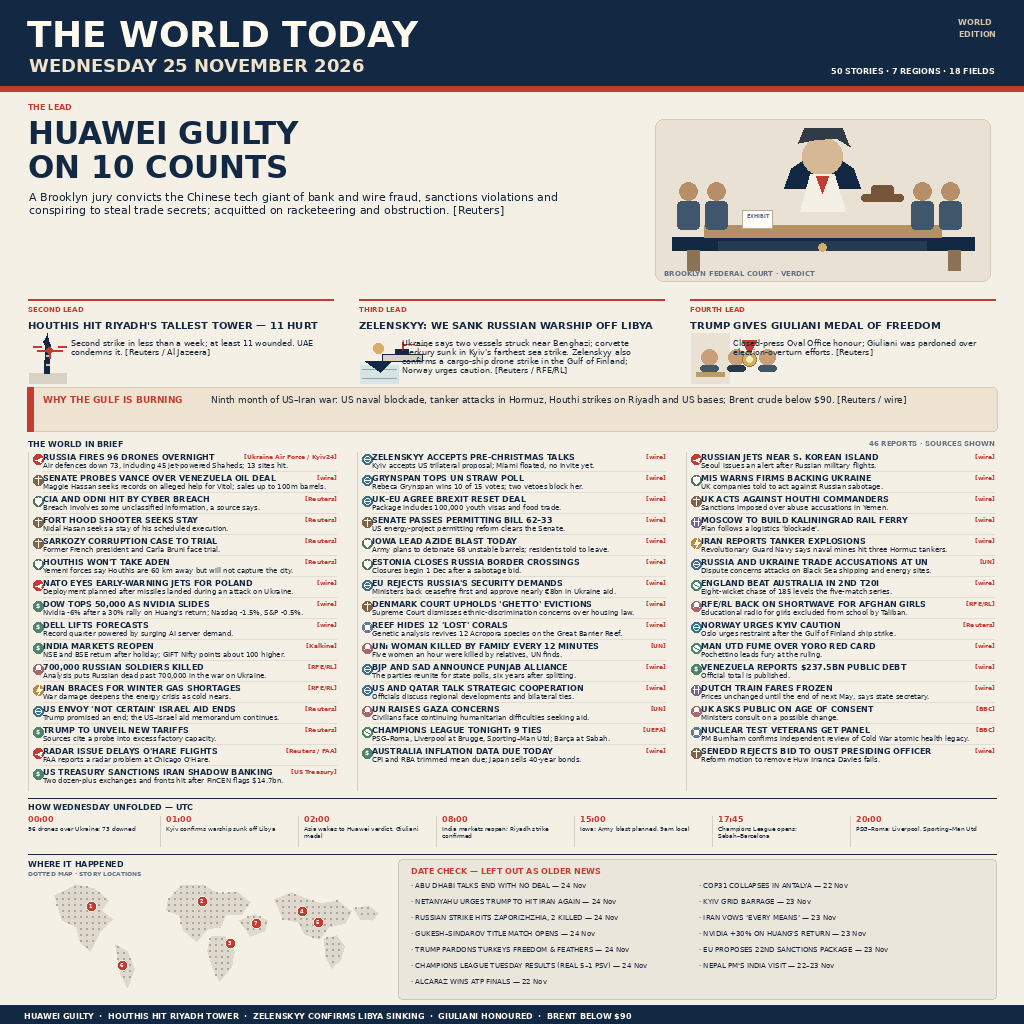
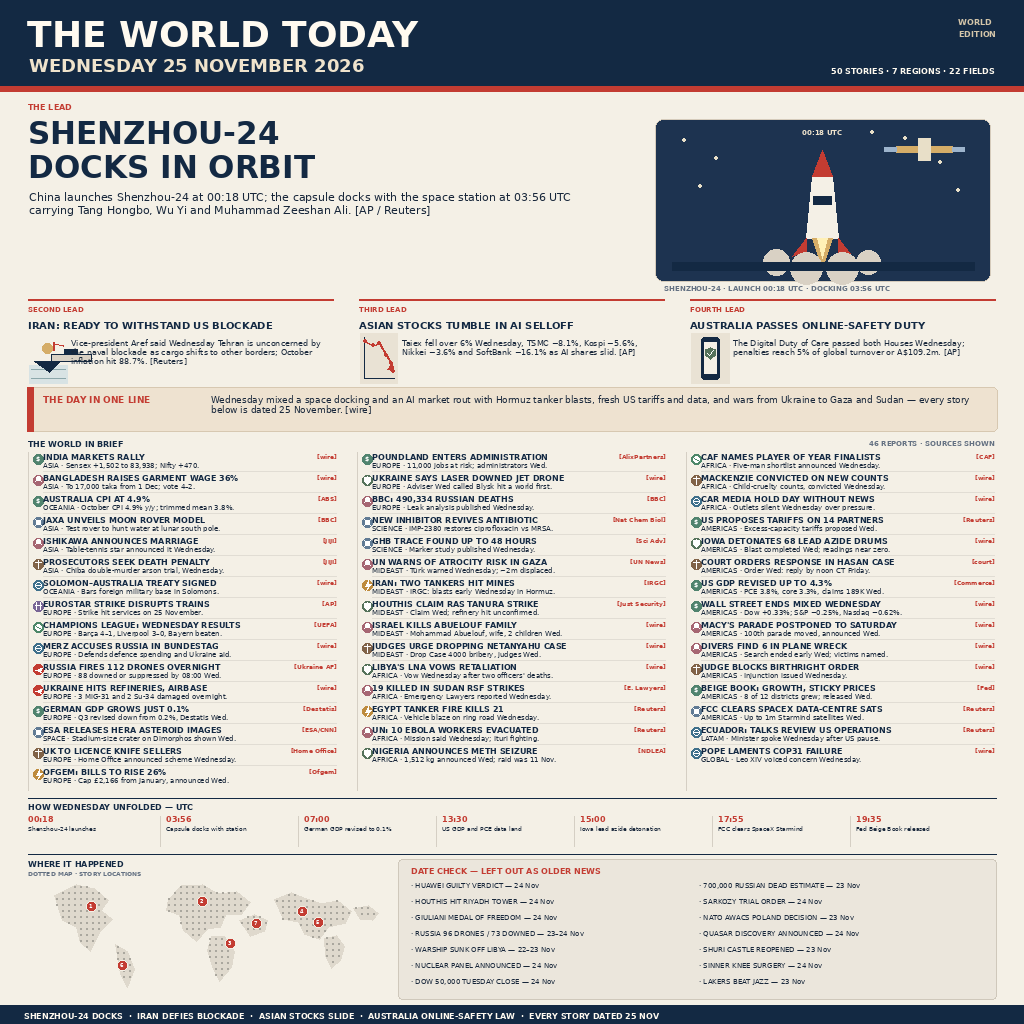
Revise poster with verified 25 Nov stories

diff --git a/main.ts b/main.ts
@@ -1,16 +1,19 @@
-import { copyFile, mkdir } from "node:fs/promises";
+import { copyFile, mkdir, stat } from "node:fs/promises";
 import { dirname, join, resolve } from "node:path";
 import { fileURLToPath } from "node:url";
 
+// Grade-time entrypoint: copy the committed poster byte-for-byte so two
+// runs always produce identical output. No network, no image processing.
 const destinationRoot = process.env.MAKEFUN_OUTPUT_DIR?.trim() || "/output";
 const source = resolve(dirname(fileURLToPath(import.meta.url)), "entry.png");
 const destination = join(destinationRoot, "entry.png");
 
-async function publish() {
+async function publishPoster() {
   try {
     await mkdir(dirname(destination), { recursive: true });
     await copyFile(source, destination);
-    console.log(`Wrote ${destination}`);
+    const { size } = await stat(destination);
+    console.log(`Wrote ${destination} (${size} bytes)`);
   } catch (error) {
     const detail = error instanceof Error ? error.message : String(error);
     console.error(`Could not copy the bundled poster to ${destination}: ${detail}`);
@@ -18,4 +21,4 @@ async function publish() {
   }
 }
 
-void publish();
+void publishPoster();

diff --git a/draw_poster.py b/draw_poster.py
@@ -88,45 +88,42 @@ def circle(cx, cy, r, fill, outline=None, thick=1):
     d.ellipse((cx-r, cy-r, cx+r, cy+r), fill=fill, outline=outline, width=thick)
 
 
-def courtroom():
-    # A compact courtroom vignette: bench, judge, jury rail and the evidence seal.
-    d.rounded_rectangle((655, 119, 990, 281), 8, fill="#e8e1d4", outline="#d5cbbb", width=1)
-    d.rectangle((672, 237, 974, 250), fill=NAVY)
-    d.rectangle((687, 250, 699, 270), fill="#8c7355")
-    d.rectangle((948, 250, 960, 270), fill="#8c7355")
-    d.rectangle((704, 225, 941, 237), fill="#b39164")
-    # Bench front inset and small gold seal.
-    d.rectangle((718, 241, 926, 250), fill="#263b53")
-    circle(822, 247, 4, GOLD)
-    # Judge silhouette above the bench.
-    d.polygon([(784, 188), (791, 168), (805, 159), (839, 159), (853, 168), (860, 188)], fill=NAVY)
-    d.ellipse((802, 137, 842, 175), fill="#d7b894")
-    d.polygon([(798, 143), (804, 128), (842, 128), (849, 146), (836, 138), (813, 140)], fill="#313b47")
-    d.polygon([(810, 174), (834, 174), (845, 211), (800, 211)], fill="#f4f0e6")
-    d.polygon([(816, 176), (828, 176), (822, 193)], fill=RED)
-    # Two jury silhouettes keep the scene grounded without adding visual noise.
-    for xx in (688, 716, 922, 950):
-        circle(xx, 191, 9, "#b68f69")
-        d.rounded_rectangle((xx-11, 201, xx+11, 229), 4, fill="#40566a")
-    # Gavel and document marked as evidence.
-    d.rounded_rectangle((861, 194, 903, 201), 3, fill="#76553a")
-    d.rounded_rectangle((871, 185, 893, 196), 3, fill="#76553a")
-    d.rectangle((742, 210, 772, 228), fill="#fffdf8", outline="#b9ad9a")
-    text(747, 213, "EXHIBIT", 5, MUTED, True)
+def rocket():
+    # A compact launch vignette: Shenzhou-24 lifts off toward the station.
+    d.rounded_rectangle((655, 119, 990, 281), 8, fill="#1d3350", outline="#d5cbbb", width=1)
+    # Stars and the station silhouette the capsule is heading for.
+    for sx, sy in ((684, 140), (716, 158), (905, 138), (940, 162), (872, 132), (700, 186), (958, 190)):
+        circle(sx, sy, 1.6, "#e8dfc8")
+    d.rectangle((896, 146, 952, 152), fill=GOLD)
+    d.rectangle((918, 138, 930, 160), fill="#e8dfc8")
+    d.rectangle((884, 147, 896, 151), fill="#9db4cc")
+    d.rectangle((952, 147, 964, 151), fill="#9db4cc")
+    # Rocket body, capsule nose and fins.
+    d.polygon([(806, 238), (812, 176), (822, 150), (832, 176), (838, 238)], fill="#f4f0e6")
+    d.polygon([(812, 176), (822, 150), (832, 176)], fill=RED)
+    d.rectangle((813, 196, 831, 204), fill=NAVY)
+    d.polygon([(806, 238), (792, 256), (806, 252)], fill=RED)
+    d.polygon([(838, 238), (852, 256), (838, 252)], fill=RED)
+    # Exhaust flame and launch-pad smoke.
+    d.polygon([(812, 238), (822, 268), (832, 238)], fill=GOLD)
+    d.polygon([(817, 238), (822, 258), (827, 238)], fill="#fff0b6")
+    for cx, cy, r in ((776, 262, 13), (806, 268, 16), (842, 268, 16), (868, 262, 12)):
+        circle(cx, cy, r, "#d9d1c4")
+    d.rectangle((672, 262, 974, 270), fill="#132943")
+    text(822, 128, "00:18 UTC", 7, "#efe3cc", True, anchor="ma")
 
 
-def tower_icon(box):
+def chart_icon(box):
     x, y, w, h = box
-    d.rectangle((x, y+h-10, x+w, y+h), fill="#d9d1c4")
-    pts = [(x+w*.42,y+h-10),(x+w*.45,y+13),(x+w*.39,y+8),(x+w*.47,y+4),
-           (x+w*.49,y),(x+w*.53,y+8),(x+w*.58,y+11),(x+w*.56,y+h-10)]
-    d.polygon(pts, fill=NAVY)
-    for yy in range(int(y+22), int(y+h-15), 9):
-        line(int(x+w*.46), yy, int(x+w*.55), yy, "#d6c7ac", 2)
-    # Drone with twin rotors and a red strike marker.
-    line(x+8,y+17,x+33,y+17,RED,2); line(x+20,y+17,x+20,y+25,RED,2)
-    line(x+4,y+13,x+12,y+13,RED,2); line(x+29,y+13,x+37,y+13,RED,2)
-    circle(x+20,y+17,3,RED)
+    d.rectangle((x, y, x+w, y+h), fill="#e9e2d4")
+    line(x+4, y+4, x+4, y+h-5, NAVY, 1)
+    line(x+4, y+h-5, x+w-3, y+h-5, NAVY, 1)
+    # A falling index line for the Asian AI selloff.
+    pts = [(x+5, y+8), (x+13, y+12), (x+19, y+10), (x+26, y+22), (x+31, y+30), (x+w-4, y+38)]
+    d.line(pts, fill=RED, width=2)
+    for px, py in pts:
+        circle(px, py, 1.8, RED)
+    d.polygon([(x+w-4, y+38), (x+w-10, y+36), (x+w-6, y+31)], fill=RED)
 
 
 def ship_icon(box):
@@ -137,22 +134,19 @@ def ship_icon(box):
     d.polygon([(x+5,y+int(h*.58)),(x+w-7,y+int(h*.58)),(x+w-18,y+int(h*.79)),(x+20,y+int(h*.79))],fill=NAVY)
     d.rectangle((x+22,y+int(h*.43),x+62,y+int(h*.58)),fill="#d9d1c4",outline=NAVY)
     d.rectangle((x+35,y+int(h*.33),x+48,y+int(h*.43)),fill=NAVY)
-    line(x+42,y+int(h*.19),x+42,y+int(h*.35),RED,2)
-    line(x+43,y+int(h*.2),x+66,y+int(h*.25),RED,2)
+    line(x+24,y+int(h*.19),x+24,y+int(h*.35),RED,2)
+    line(x+25,y+int(h*.2),x+34,y+int(h*.25),RED,2)
     circle(x+w-20,y+15,5,GOLD)
 
 
-def medal_icon(box):
+def shield_icon(box):
     x,y,w,h=box
-    # Two officials and a ribbon medal against a simple ceremony backdrop.
+    # A phone guarded by a shield: Australia's new online-safety duty.
     d.rectangle((x,y,x+w,y+h),fill="#e9e2d4")
-    d.rectangle((x+5,y+h-11,x+w-5,y+h-7),fill="#bd9b69")
-    for xx, color in ((x+18,"#435768"),(x+45,"#26394e"),(x+76,"#435768")):
-        circle(xx,y+24,8,"#c99f7a")
-        d.rounded_rectangle((xx-9,y+32,xx+9,y+h-12),4,fill=color)
-    d.polygon([(x+51,y+7),(x+58,y+22),(x+65,y+7)],fill=RED)
-    circle(x+58,y+26,7,GOLD,outline="#9e762f",thick=1)
-    circle(x+58,y+26,3,"#fff0b6")
+    d.rounded_rectangle((x+10,y+4,x+28,y+h-4),3,fill=NAVY)
+    d.rectangle((x+13,y+9,x+25,y+h-10),fill="#f4f0e6")
+    d.polygon([(x+19,y+14),(x+24,y+16),(x+24,y+22),(x+19,y+26),(x+14,y+22),(x+14,y+16)],fill="#55725a")
+    d.line([(x+16.5,y+20),(x+18.5,y+22),(x+22,y+17.5)],fill="white",width=1)
 
 
 def mini_symbol(x, y, kind):
@@ -193,24 +187,24 @@ d.rectangle((0,86,W,91),fill=RED)
 text(27,13,"THE WORLD TODAY",36,"#fffaf0",True)
 text(29,55,"WEDNESDAY 25 NOVEMBER 2026",18,"#efe3cc",True)
 text(996,17,"WORLD\nEDITION",8,"#d4c5a9",True,anchor="ra")
-text(995,66,"50 STORIES · 7 REGIONS · 18 FIELDS",8,"#fffaf0",True,anchor="ra")
+text(995,66,"50 STORIES · 7 REGIONS · 22 FIELDS",8,"#fffaf0",True,anchor="ra")
 
-# Dominant front-page lead and original courtroom illustration.
+# Dominant front-page lead and original launch illustration.
 section_label(28,102,"THE LEAD",RED,8)
-text(28,115,"HUAWEI GUILTY",31,NAVY,True)
-text(28,149,"ON 10 COUNTS",31,NAVY,True)
-paragraph(29,190,"A Brooklyn jury convicts the Chinese tech giant of bank and wire fraud, sanctions violations and conspiring to steal trade secrets; acquitted on racketeering and obstruction. [Reuters]",11,585,INK,False,2,5)
-courtroom()
-text(664,269,"BROOKLYN FEDERAL COURT · VERDICT",7,MUTED,True)
+text(28,115,"SHENZHOU-24",31,NAVY,True)
+text(28,149,"DOCKS IN ORBIT",31,NAVY,True)
+paragraph(29,190,"China launches Shenzhou-24 at 00:18 UTC; the capsule docks with the space station at 03:56 UTC carrying Tang Hongbo, Wu Yi and Muhammad Zeeshan Ali. [AP / Reuters]",11,585,INK,False,2,5)
+rocket()
+text(664,284,"SHENZHOU-24 · LAUNCH 00:18 UTC · DOCKING 03:56 UTC",7,MUTED,True)
 
 # Three concise illustrated follow-up leads.
 lead_cards = [
-    ("SECOND LEAD","HOUTHIS HIT RIYADH'S TALLEST TOWER — 11 HURT",
-     "Second strike in less than a week; at least 11 wounded. UAE condemns it. [Reuters / Al Jazeera]","tower"),
-    ("THIRD LEAD","ZELENSKYY: WE SANK RUSSIAN WARSHIP OFF LIBYA",
-     "Ukraine says two vessels struck near Benghazi; corvette Merkury sunk in Kyiv's farthest sea strike. Zelenskyy also confirms a cargo-ship drone strike in the Gulf of Finland; Norway urges caution. [Reuters / RFE/RL]","ship"),
-    ("FOURTH LEAD","TRUMP GIVES GIULIANI MEDAL OF FREEDOM",
-     "Closed-press Oval Office honour; Giuliani was pardoned over election-overturn efforts. [Reuters]","medal"),
+    ("SECOND LEAD","IRAN: READY TO WITHSTAND US BLOCKADE",
+     "Vice-president Aref said Wednesday Tehran is unconcerned by the naval blockade as cargo shifts to other borders; October inflation hit 88.7%. [Reuters]","ship"),
+    ("THIRD LEAD","ASIAN STOCKS TUMBLE IN AI SELLOFF",
+     "Taiex fell over 6% Wednesday, TSMC −8.1%, Kospi −5.6%, Nikkei −3.6% and SoftBank −16.1% as AI shares slid. [AP]","chart"),
+    ("FOURTH LEAD","AUSTRALIA PASSES ONLINE-SAFETY DUTY",
+     "The Digital Duty of Care passed both Houses Wednesday; penalties reach 5% of global turnover or A$109.2m. [AP]","shield"),
 ]
 card_x = [28, 359, 690]
 for i,(label,headline,deck,kind) in enumerate(lead_cards):
@@ -219,66 +213,66 @@ for i,(label,headline,deck,kind) in enumerate(lead_cards):
     section_label(x,305,label,RED,7)
     title, title_size = fitted(headline,10,304,True,7)
     text(x,319,title,title_size,NAVY,True)
-    if kind == "tower": tower_icon((x+1,333,37,50))
+    if kind == "chart": chart_icon((x+1,333,37,50))
     elif kind == "ship": ship_icon((x+1,333,38,50))
-    else: medal_icon((x+1,333,38,50))
+    else: shield_icon((x+1,333,38,50))
     paragraph(x+43,338,deck,8,258,INK,False,1,5)
 
-# The regional conflict explainer, visually set apart as the only red band.
+# The day's big picture, visually set apart as the only red band.
 d.rounded_rectangle((27,387,997,431),5,fill="#eee2d0",outline="#d7c8b1")
 d.rectangle((27,387,33,431),fill=RED)
-section_label(43,394,"WHY THE GULF IS BURNING",RED,9)
-paragraph(211,394,"Ninth month of US–Iran war: US naval blockade, tanker attacks in Hormuz, Houthi strikes on Riyadh and US bases; Brent crude below $90. [Reuters / wire]",9,769,INK,False,1,3)
+section_label(43,394,"THE DAY IN ONE LINE",RED,9)
+paragraph(211,394,"Wednesday mixed a space docking and an AI market rout with Hormuz tanker blasts, fresh US tariffs and data, and wars from Ukraine to Gaza and Sudan — every story below is dated 25 November. [wire]",9,769,INK,False,1,3)
 
 # All forty-six briefs stay in the edition. The deck is a short, measured
 # caption for each; source tags sit on each headline line.
 stories = [
- ("RUSSIA FIRES 96 DRONES OVERNIGHT","Air defences down 73, including 45 jet-powered Shaheds; 13 sites hit.","Ukraine Air Force / Kyiv24","air"),
- ("SENATE PROBES VANCE OVER VENEZUELA OIL DEAL","Maggie Hassan seeks records on alleged help for Vitol; sales up to 100m barrels.","wire","law"),
- ("CIA AND ODNI HIT BY CYBER BREACH","Breach involves some unclassified information, a source says.","Reuters","shield"),
- ("FORT HOOD SHOOTER SEEKS STAY","Nidal Hasan seeks a stay of his scheduled execution.","Reuters","law"),
- ("SARKOZY CORRUPTION CASE TO TRIAL","Former French president and Carla Bruni face trial.","Reuters","law"),
- ("HOUTHIS WON'T TAKE ADEN","Yemeni forces say Houthis are 60 km away but will not capture the city.","Reuters","shield"),
- ("NATO EYES EARLY-WARNING JETS FOR POLAND","Deployment planned after missiles landed during an attack on Ukraine.","wire","air"),
- ("DOW TOPS 50,000 AS NVIDIA SLIDES","Nvidia -6% after a 30% rally on Huang's return; Nasdaq -1.5%, S&P -0.5%.","wire","money"),
- ("DELL LIFTS FORECASTS","Record quarter powered by surging AI server demand.","wire","money"),
- ("INDIA MARKETS REOPEN","NSE and BSE return after holiday; GIFT Nifty points about 100 higher.","Kalkine","money"),
- ("700,000 RUSSIAN SOLDIERS KILLED","Analysis puts Russian dead past 700,000 in the war on Ukraine.","RFE/RL","people"),
- ("IRAN BRACES FOR WINTER GAS SHORTAGES","War damage deepens the energy crisis as cold nears.","RFE/RL","energy"),
- ("US ENVOY 'NOT CERTAIN' ISRAEL AID ENDS","Trump promised an end; the US–Israel aid memorandum continues.","Reuters","world"),
- ("TRUMP TO UNVEIL NEW TARIFFS","Sources cite a probe into excess factory capacity.","Reuters","money"),
- ("RADAR ISSUE DELAYS O'HARE FLIGHTS","FAA reports a radar problem at Chicago O'Hare.","Reuters / FAA","air"),
- ("US TREASURY SANCTIONS IRAN SHADOW BANKING","Two dozen-plus exchanges and fronts hit after FinCEN flags $14.7bn.","US Treasury","money"),
- ("ZELENSKYY ACCEPTS PRE-CHRISTMAS TALKS","Kyiv accepts US trilateral proposal; Miami floated, no invite yet.","wire","world"),
- ("GRYNSPAN TOPS UN STRAW POLL","Rebeca Grynspan wins 10 of 15 votes; two vetoes block her.","wire","world"),
- ("UK–EU AGREE BREXIT RESET DEAL","Package includes 100,000 youth visas and food trade.","wire","world"),
- ("SENATE PASSES PERMITTING BILL 62–33","US energy-project permitting reform clears the Senate.","wire","law"),
- ("IOWA LEAD AZIDE BLAST TODAY","Army plans to detonate 68 unstable barrels; residents told to leave.","wire","shield"),
- ("ESTONIA CLOSES RUSSIA BORDER CROSSINGS","Closures begin 1 Dec after a sabotage bid.","wire","shield"),
- ("EU REJECTS RUSSIA'S SECURITY DEMANDS","Ministers back ceasefire first and approve nearly €8bn in Ukraine aid.","wire","world"),
- ("DENMARK COURT UPHOLDS 'GHETTO' EVICTIONS","Supreme Court dismisses ethnic-discrimination concerns over housing law.","wire","law"),
- ("REEF HIDES 12 'LOST' CORALS","Genetic analysis revives 12 Acropora species on the Great Barrier Reef.","wire","science"),
- ("UN: WOMAN KILLED BY FAMILY EVERY 12 MINUTES","Five women an hour were killed by relatives, UN finds.","UN","people"),
- ("BJP AND SAD ANNOUNCE PUNJAB ALLIANCE","The parties reunite for state polls, six years after splitting.","wire","world"),
- ("US AND QATAR TALK STRATEGIC COOPERATION","Officials discuss regional developments and bilateral ties.","wire","world"),
- ("UN RAISES GAZA CONCERNS","Civilians face continuing humanitarian difficulties seeking aid.","UN","people"),
- ("CHAMPIONS LEAGUE TONIGHT: 9 TIES","PSG–Roma, Liverpool at Brugge, Sporting–Man Utd; Barça at Sabah.","UEFA","sport"),
- ("AUSTRALIA INFLATION DATA DUE TODAY","CPI and RBA trimmed mean due; Japan sells 40-year bonds.","wire","money"),
- ("RUSSIAN JETS NEAR S. KOREAN ISLAND","Seoul issues an alert after Russian military flights.","wire","air"),
- ("MI5 WARNS FIRMS BACKING UKRAINE","UK companies told to act against Russian sabotage.","wire","shield"),
- ("UK ACTS AGAINST HOUTHI COMMANDERS","Sanctions imposed over abuse accusations in Yemen.","wire","law"),
- ("MOSCOW TO BUILD KALININGRAD RAIL FERRY","Plan follows a logistics 'blockade'.","wire","rail"),
- ("IRAN REPORTS TANKER EXPLOSIONS","Revolutionary Guard Navy says naval mines hit three Hormuz tankers.","wire","energy"),
- ("RUSSIA AND UKRAINE TRADE ACCUSATIONS AT UN","Dispute concerns attacks on Black Sea shipping and energy sites.","UN","world"),
- ("ENGLAND BEAT AUSTRALIA IN 2ND T20I","Eight-wicket chase of 185 levels the five-match series.","wire","sport"),
- ("RFE/RL BACK ON SHORTWAVE FOR AFGHAN GIRLS","Educational radio for girls excluded from school by Taliban.","RFE/RL","people"),
- ("NORWAY URGES KYIV CAUTION","Oslo urges restraint after the Gulf of Finland ship strike.","Reuters","world"),
- ("MAN UTD FUME OVER YORO RED CARD","Pochettino leads fury at the ruling.","wire","sport"),
- ("VENEZUELA REPORTS $237.5BN PUBLIC DEBT","Official total is published.","wire","money"),
- ("DUTCH TRAIN FARES FROZEN","Prices unchanged until the end of next May, says state secretary.","wire","rail"),
- ("UK ASKS PUBLIC ON AGE OF CONSENT","Ministers consult on a possible change.","BBC","people"),
- ("NUCLEAR TEST VETERANS GET PANEL","PM Burnham confirms independent review of Cold War atomic health legacy.","BBC","science"),
- ("SENEDD REJECTS BID TO OUST PRESIDING OFFICER","Reform motion to remove Huw Irranca Davies fails.","wire","law"),
+ ("INDIA MARKETS RALLY","ASIA · Sensex +1,502 to 83,938; Nifty +470.","wire","money"),
+ ("BANGLADESH RAISES GARMENT WAGE 36%","ASIA · To 17,000 taka from 1 Dec; vote 4–2.","wire","people"),
+ ("AUSTRALIA CPI AT 4.9%","OCEANIA · October CPI 4.9% y/y; trimmed mean 3.8%.","ABS","money"),
+ ("JAXA UNVEILS MOON ROVER MODEL","ASIA · Test rover to hunt water at lunar south pole.","BBC","science"),
+ ("ISHIKAWA ANNOUNCES MARRIAGE","ASIA · Table-tennis star announced it Wednesday.","JIJI","people"),
+ ("PROSECUTORS SEEK DEATH PENALTY","ASIA · Chiba double-murder arson trial, Wednesday.","JIJI","law"),
+ ("SOLOMON–AUSTRALIA TREATY SIGNED","OCEANIA · Bars foreign military base in Solomons.","wire","world"),
+ ("EUROSTAR STRIKE DISRUPTS TRAINS","EUROPE · Strike hit services on 25 November.","AP","rail"),
+ ("CHAMPIONS LEAGUE: WEDNESDAY RESULTS","EUROPE · Barça 4–1, Liverpool 3–0, Bayern beaten.","UEFA","sport"),
+ ("MERZ ACCUSES RUSSIA IN BUNDESTAG","EUROPE · Defends defence spending and Ukraine aid.","wire","world"),
+ ("RUSSIA FIRES 112 DRONES OVERNIGHT","EUROPE · 88 downed or suppressed by 08:00 Wed.","Ukraine AF","air"),
+ ("UKRAINE HITS REFINERIES, AIRBASE","EUROPE · 3 MiG-31 and 2 Su-34 damaged overnight.","wire","air"),
+ ("GERMAN GDP GROWS JUST 0.1%","EUROPE · Q3 revised down from 0.2%, Destatis Wed.","Destatis","money"),
+ ("ESA RELEASES HERA ASTEROID IMAGES","SPACE · Stadium-size crater on Dimorphos shown Wed.","ESA/CNN","science"),
+ ("UK TO LICENCE KNIFE SELLERS","EUROPE · Home Office announced scheme Wednesday.","Home Office","law"),
+ ("OFGEM: BILLS TO RISE 26%","EUROPE · Cap £2,166 from January, announced Wed.","Ofgem","energy"),
+ ("POUNDLAND ENTERS ADMINISTRATION","EUROPE · 11,000 jobs at risk; administrators Wed.","AlixPartners","money"),
+ ("UKRAINE SAYS LASER DOWNED JET DRONE","EUROPE · Adviser Wed called Blysk hit a world first.","wire","shield"),
+ ("BBC: 490,334 RUSSIAN DEATHS","EUROPE · Leak analysis published Wednesday.","BBC","people"),
+ ("NEW INHIBITOR REVIVES ANTIBIOTIC","SCIENCE · IMP-2380 restores ciprofloxacin vs MRSA.","Nat Chem Biol","science"),
+ ("GHB TRACE FOUND UP TO 48 HOURS","SCIENCE · Marker study published Wednesday.","Sci Adv","science"),
+ ("UN WARNS OF ATROCITY RISK IN GAZA","MIDEAST · Türk warned Wednesday; ~2m displaced.","UN News","people"),
+ ("IRAN: TWO TANKERS HIT MINES","MIDEAST · IRGC: blasts early Wednesday in Hormuz.","IRGC","energy"),
+ ("HOUTHIS CLAIM RAS TANURA STRIKE","MIDEAST · Claim Wed; refinery hit unconfirmed.","Just Security","shield"),
+ ("ISRAEL KILLS ABUELOUF FAMILY","MIDEAST · Mohammad Abuelouf, wife, 2 children Wed.","wire","people"),
+ ("JUDGES URGE DROPPING NETANYAHU CASE","MIDEAST · Drop Case 4000 bribery, judges Wed.","wire","law"),
+ ("LIBYA'S LNA VOWS RETALIATION","AFRICA · Vow Wednesday after two officers' deaths.","wire","shield"),
+ ("19 KILLED IN SUDAN RSF STRIKES","AFRICA · Emergency Lawyers reported Wednesday.","E. Lawyers","people"),
+ ("EGYPT TANKER FIRE KILLS 21","AFRICA · Vehicle blaze on ring road Wednesday.","Reuters","energy"),
+ ("UN: 10 EBOLA WORKERS EVACUATED","AFRICA · Mission said Wednesday; Ituri fighting.","Reuters","people"),
+ ("NIGERIA ANNOUNCES METH SEIZURE","AFRICA · 1,512 kg announced Wed; raid was 11 Nov.","NDLEA","shield"),
+ ("CAF NAMES PLAYER OF YEAR FINALISTS","AFRICA · Five-man shortlist announced Wednesday.","CAF","sport"),
+ ("MACKENZIE CONVICTED ON NEW COUNTS","AFRICA · Child-cruelty counts, convicted Wednesday.","wire","law"),
+ ("CAR MEDIA HOLD DAY WITHOUT NEWS","AFRICA · Outlets silent Wednesday over pressure.","wire","world"),
+ ("US PROPOSES TARIFFS ON 14 PARTNERS","AMERICAS · Excess-capacity tariffs proposed Wed.","Reuters","money"),
+ ("IOWA DETONATES 68 LEAD AZIDE DRUMS","AMERICAS · Blast completed Wed; readings near zero.","wire","shield"),
+ ("COURT ORDERS RESPONSE IN HASAN CASE","AMERICAS · Order Wed: reply by noon CT Friday.","court","law"),
+ ("US GDP REVISED UP TO 4.3%","AMERICAS · PCE 3.8%, core 3.3%, claims 189K Wed.","Commerce","money"),
+ ("WALL STREET ENDS MIXED WEDNESDAY","AMERICAS · Dow +0.33%; S&P −0.25%, Nasdaq −0.62%.","wire","money"),
+ ("MACY'S PARADE POSTPONED TO SATURDAY","AMERICAS · 100th parade moved, announced Wed.","wire","people"),
+ ("DIVERS FIND 6 IN PLANE WRECK","AMERICAS · Search ended early Wed; victims named.","wire","people"),
+ ("JUDGE BLOCKS BIRTHRIGHT ORDER","AMERICAS · Injunction issued Wednesday.","wire","law"),
+ ("BEIGE BOOK: GROWTH, STICKY PRICES","AMERICAS · 8 of 12 districts grew; released Wed.","Fed","money"),
+ ("FCC CLEARS SPACEX DATA-CENTRE SATS","AMERICAS · Up to 1m Starmind satellites Wed.","Reuters","science"),
+ ("ECUADOR: TALKS REVIEW US OPERATIONS","LATAM · Minister spoke Wednesday after US pause.","Reuters","world"),
+ ("POPE LAMENTS COP31 FAILURE","GLOBAL · Leo XIV voiced concern Wednesday.","wire","world"),
 ]
 assert len(stories) == 46, f"grid story count is {len(stories)}"
 
@@ -314,13 +308,13 @@ assert cursor == 46
 line(28,798,996,798,NAVY,1)
 section_label(28,802,"HOW WEDNESDAY UNFOLDED — UTC",NAVY,8)
 timeline = [
- ("00:00","96 drones over Ukraine; 73 downed"),
- ("01:00","Kyiv confirms warship sunk off Libya"),
- ("02:00","Asia wakes to Huawei verdict, Giuliani medal"),
- ("08:00","India markets reopen; Riyadh strike confirmed"),
- ("15:00","Iowa: Army blast planned, 9am local"),
- ("17:45","Champions League opens; Sabah–Barcelona"),
- ("20:00","PSG–Roma; Liverpool, Sporting–Man Utd"),
+ ("00:18","Shenzhou-24 launches"),
+ ("03:56","Capsule docks with station"),
+ ("07:00","German GDP revised to 0.1%"),
+ ("13:30","US GDP and PCE data land"),
+ ("15:00","Iowa lead azide detonation"),
+ ("17:55","FCC clears SpaceX Starmind"),
+ ("19:35","Fed Beige Book released"),
 ]
 for i,(when,what) in enumerate(timeline):
     x=28+i*138
@@ -360,19 +354,20 @@ for px,py,num in pins:
 d.rounded_rectangle((398,859,996,999),4,fill="#ebe6dc",outline="#cfc8bb")
 section_label(411,866,"DATE CHECK — LEFT OUT AS OLDER NEWS",RED,8)
 older = [
- "ABU DHABI TALKS END WITH NO DEAL — 24 Nov",
- "NETANYAHU URGES TRUMP TO HIT IRAN AGAIN — 24 Nov",
- "RUSSIAN STRIKE HITS ZAPORIZHZHIA, 2 KILLED — 24 Nov",
- "GUKESH–SINDAROV TITLE MATCH OPENS — 24 Nov",
- "TRUMP PARDONS TURKEYS FREEDOM & FEATHERS — 24 Nov",
- "CHAMPIONS LEAGUE TUESDAY RESULTS (REAL 5–1 PSV) — 24 Nov",
- "ALCARAZ WINS ATP FINALS — 22 Nov",
- "COP31 COLLAPSES IN ANTALYA — 22 Nov",
- "KYIV GRID BARRAGE — 23 Nov",
- "IRAN VOWS ‘EVERY MEANS’ — 23 Nov",
- "NVIDIA +30% ON HUANG'S RETURN — 23 Nov",
- "EU PROPOSES 22ND SANCTIONS PACKAGE — 23 Nov",
- "NEPAL PM'S INDIA VISIT — 22–23 Nov",
+ "HUAWEI GUILTY VERDICT — 24 Nov",
+ "HOUTHIS HIT RIYADH TOWER — 24 Nov",
+ "GIULIANI MEDAL OF FREEDOM — 24 Nov",
+ "RUSSIA 96 DRONES / 73 DOWNED — 23–24 Nov",
+ "WARSHIP SUNK OFF LIBYA — 22–23 Nov",
+ "NUCLEAR PANEL ANNOUNCED — 24 Nov",
+ "DOW 50,000 TUESDAY CLOSE — 24 Nov",
+ "700,000 RUSSIAN DEAD ESTIMATE — 23 Nov",
+ "SARKOZY TRIAL ORDER — 24 Nov",
+ "NATO AWACS POLAND DECISION — 23 Nov",
+ "QUASAR DISCOVERY ANNOUNCED — 24 Nov",
+ "SHURI CASTLE REOPENED — 23 Nov",
+ "SINNER KNEE SURGERY — 24 Nov",
+ "LAKERS BEAT JAZZ — 23 Nov",
 ]
 for i,item in enumerate(older):
     col=i//7
@@ -384,7 +379,7 @@ for i,item in enumerate(older):
 
 # Bottom ribbon repeats the four edition leads and the oil-market line.
 d.rectangle((0,1005,W,H),fill=NAVY)
-footer="HUAWEI GUILTY  ·  HOUTHIS HIT RIYADH TOWER  ·  ZELENSKYY CONFIRMS LIBYA SINKING  ·  GIULIANI HONOURED  ·  BRENT BELOW $90"
+footer="SHENZHOU-24 DOCKS  ·  IRAN DEFIES BLOCKADE  ·  ASIAN STOCKS SLIDE  ·  AUSTRALIA ONLINE-SAFETY LAW  ·  EVERY STORY DATED 25 NOV"
 footer,size=fitted(footer,8,976,True,6)
 text(24,1011,footer,size,"#fffaf0",True)
 

diff --git a/README.md b/README.md
@@ -6,8 +6,11 @@
 
 The World Today — Wednesday 25 November 2026: a deterministic newspaper
 poster covering the verified world news of the day in one 1024×1024 PNG.
-The page has four illustrated lead stories, the Gulf explainer, 46 short
-briefs, a UTC timeline, a location map, and a dated older-news check box.
+The page leads with Shenzhou-24's launch and docking, Iran's blockade
+stance, Asia's AI stock selloff and Australia's online-safety law, then
+46 short briefs grouped by region, a UTC timeline, a location map, and a
+DATE CHECK box listing older stories left out with their real dates.
+Every story on the page is sourced to reporting dated 25 November 2026.
 
 `draw_poster.py` uses Pillow to draw the original flat-vector artwork. The
 Node 22 entrypoint copies the committed `entry.png` to `$MAKEFUN_OUTPUT_DIR`
